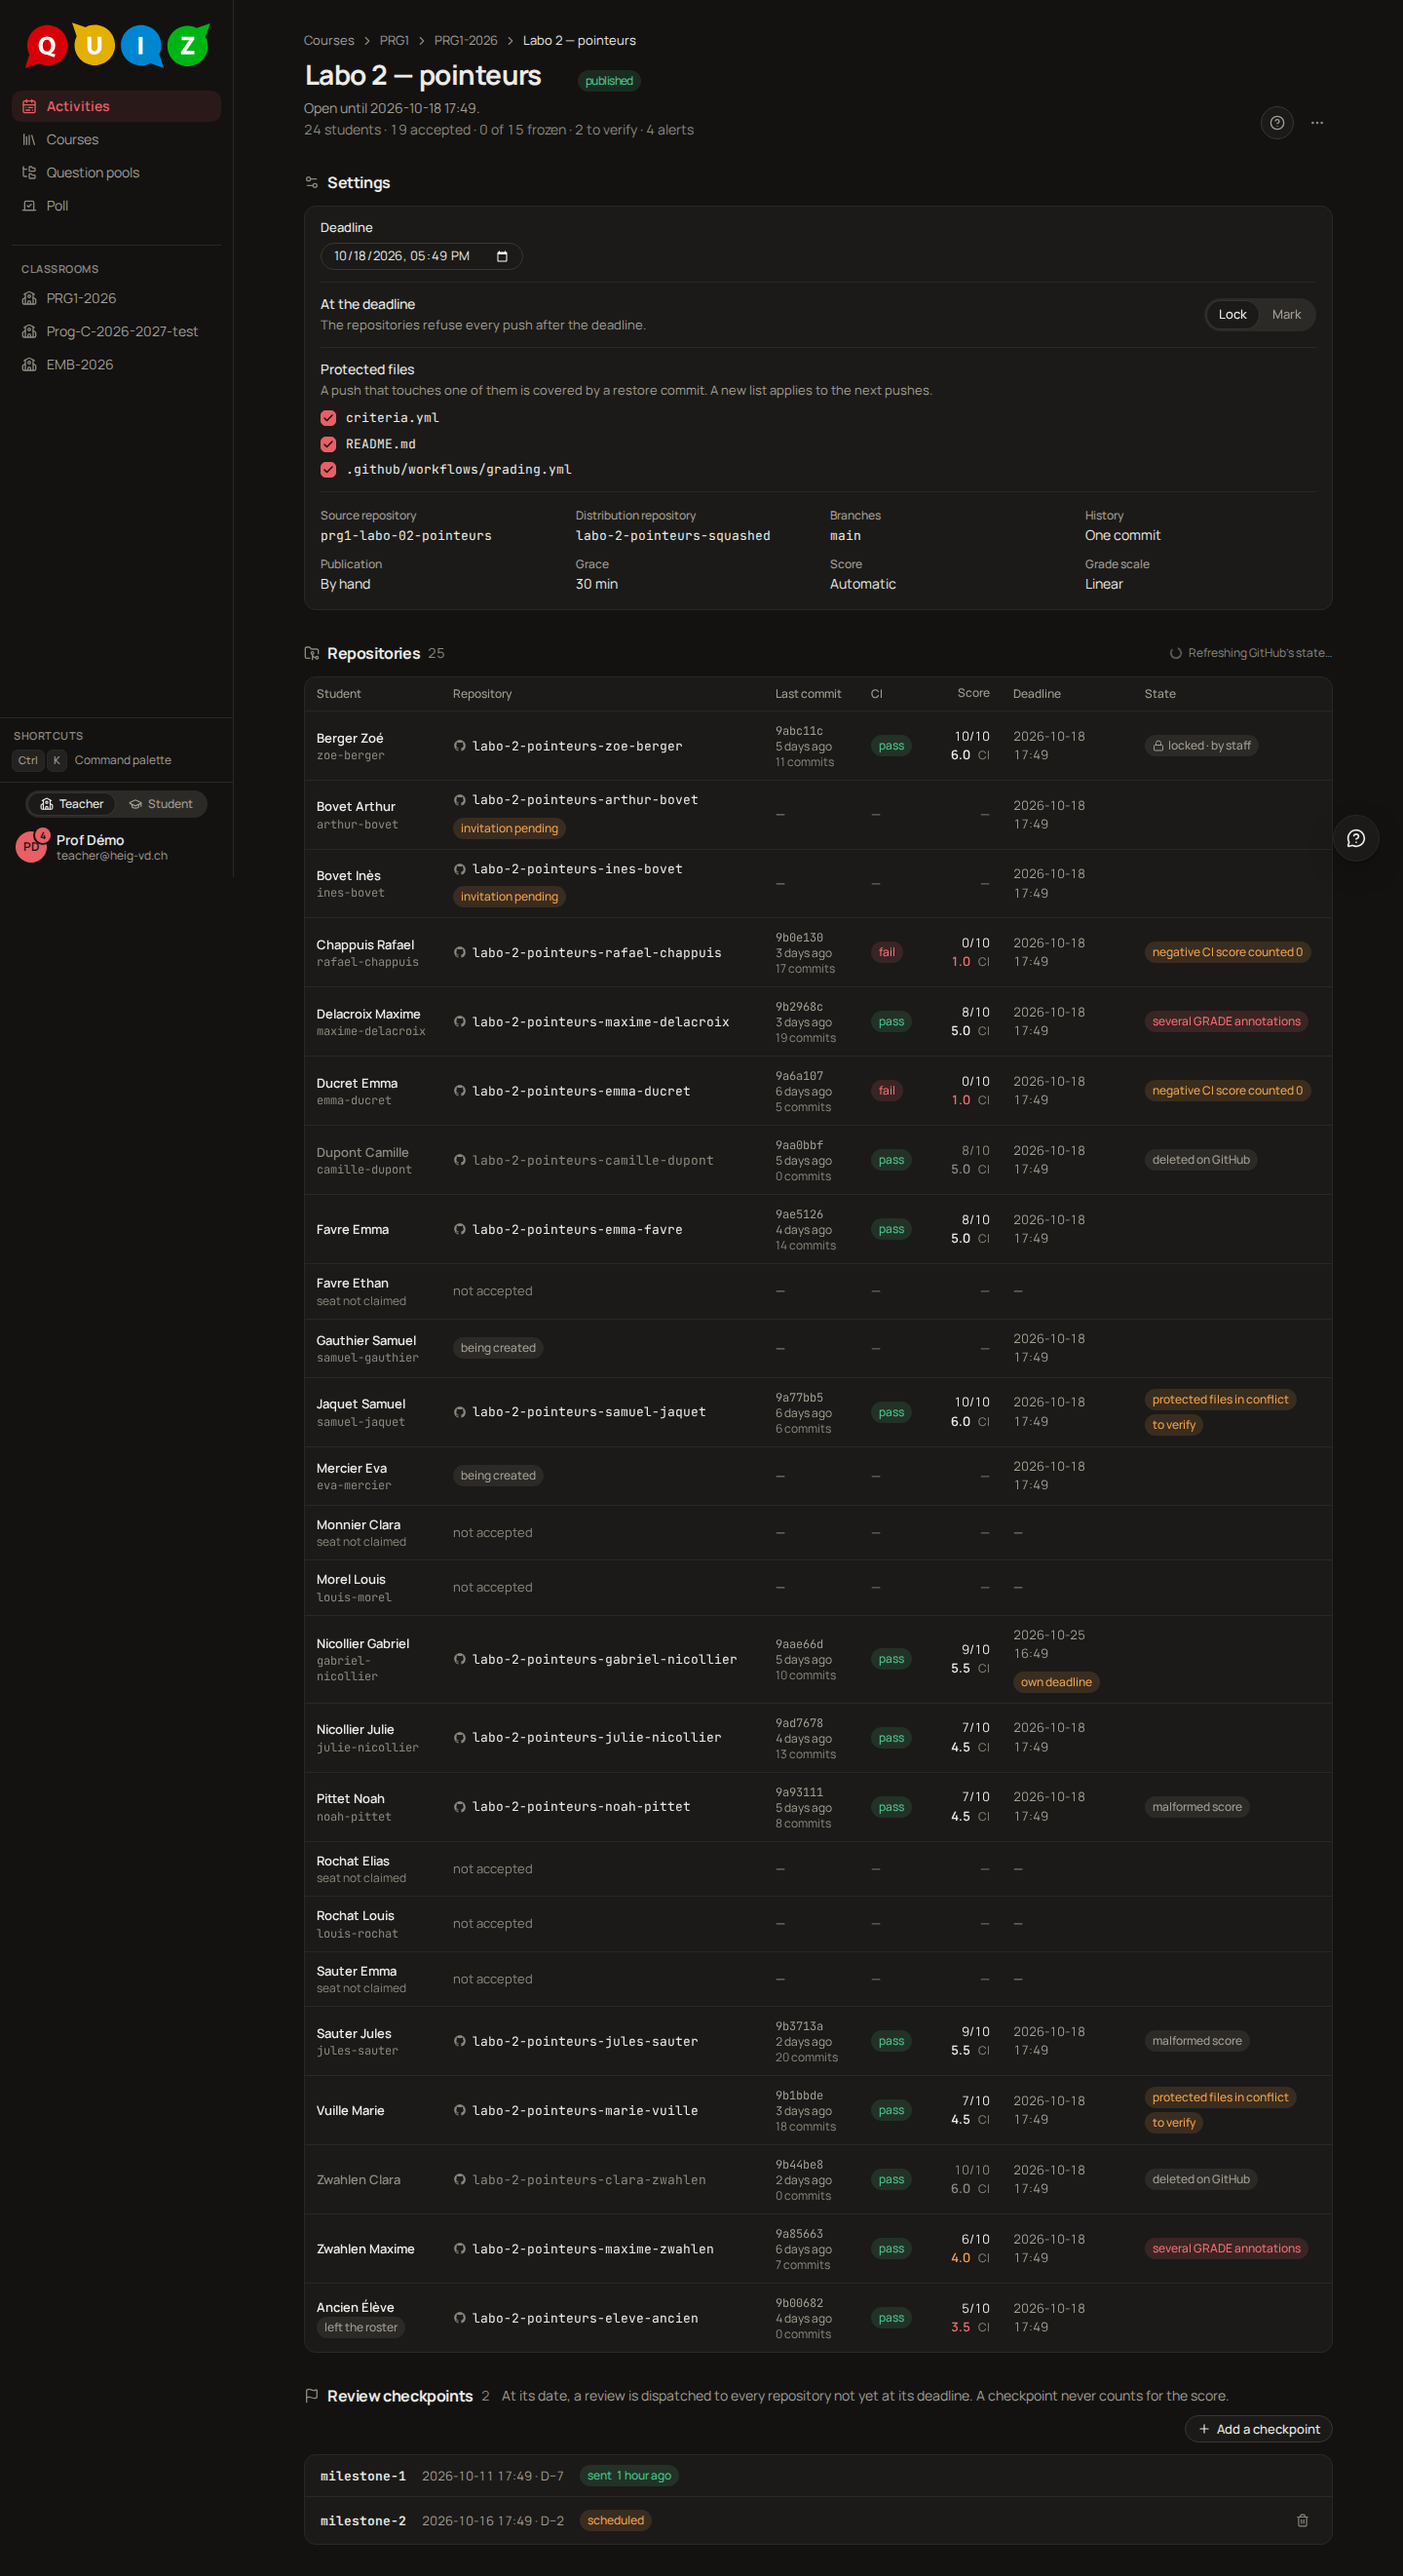
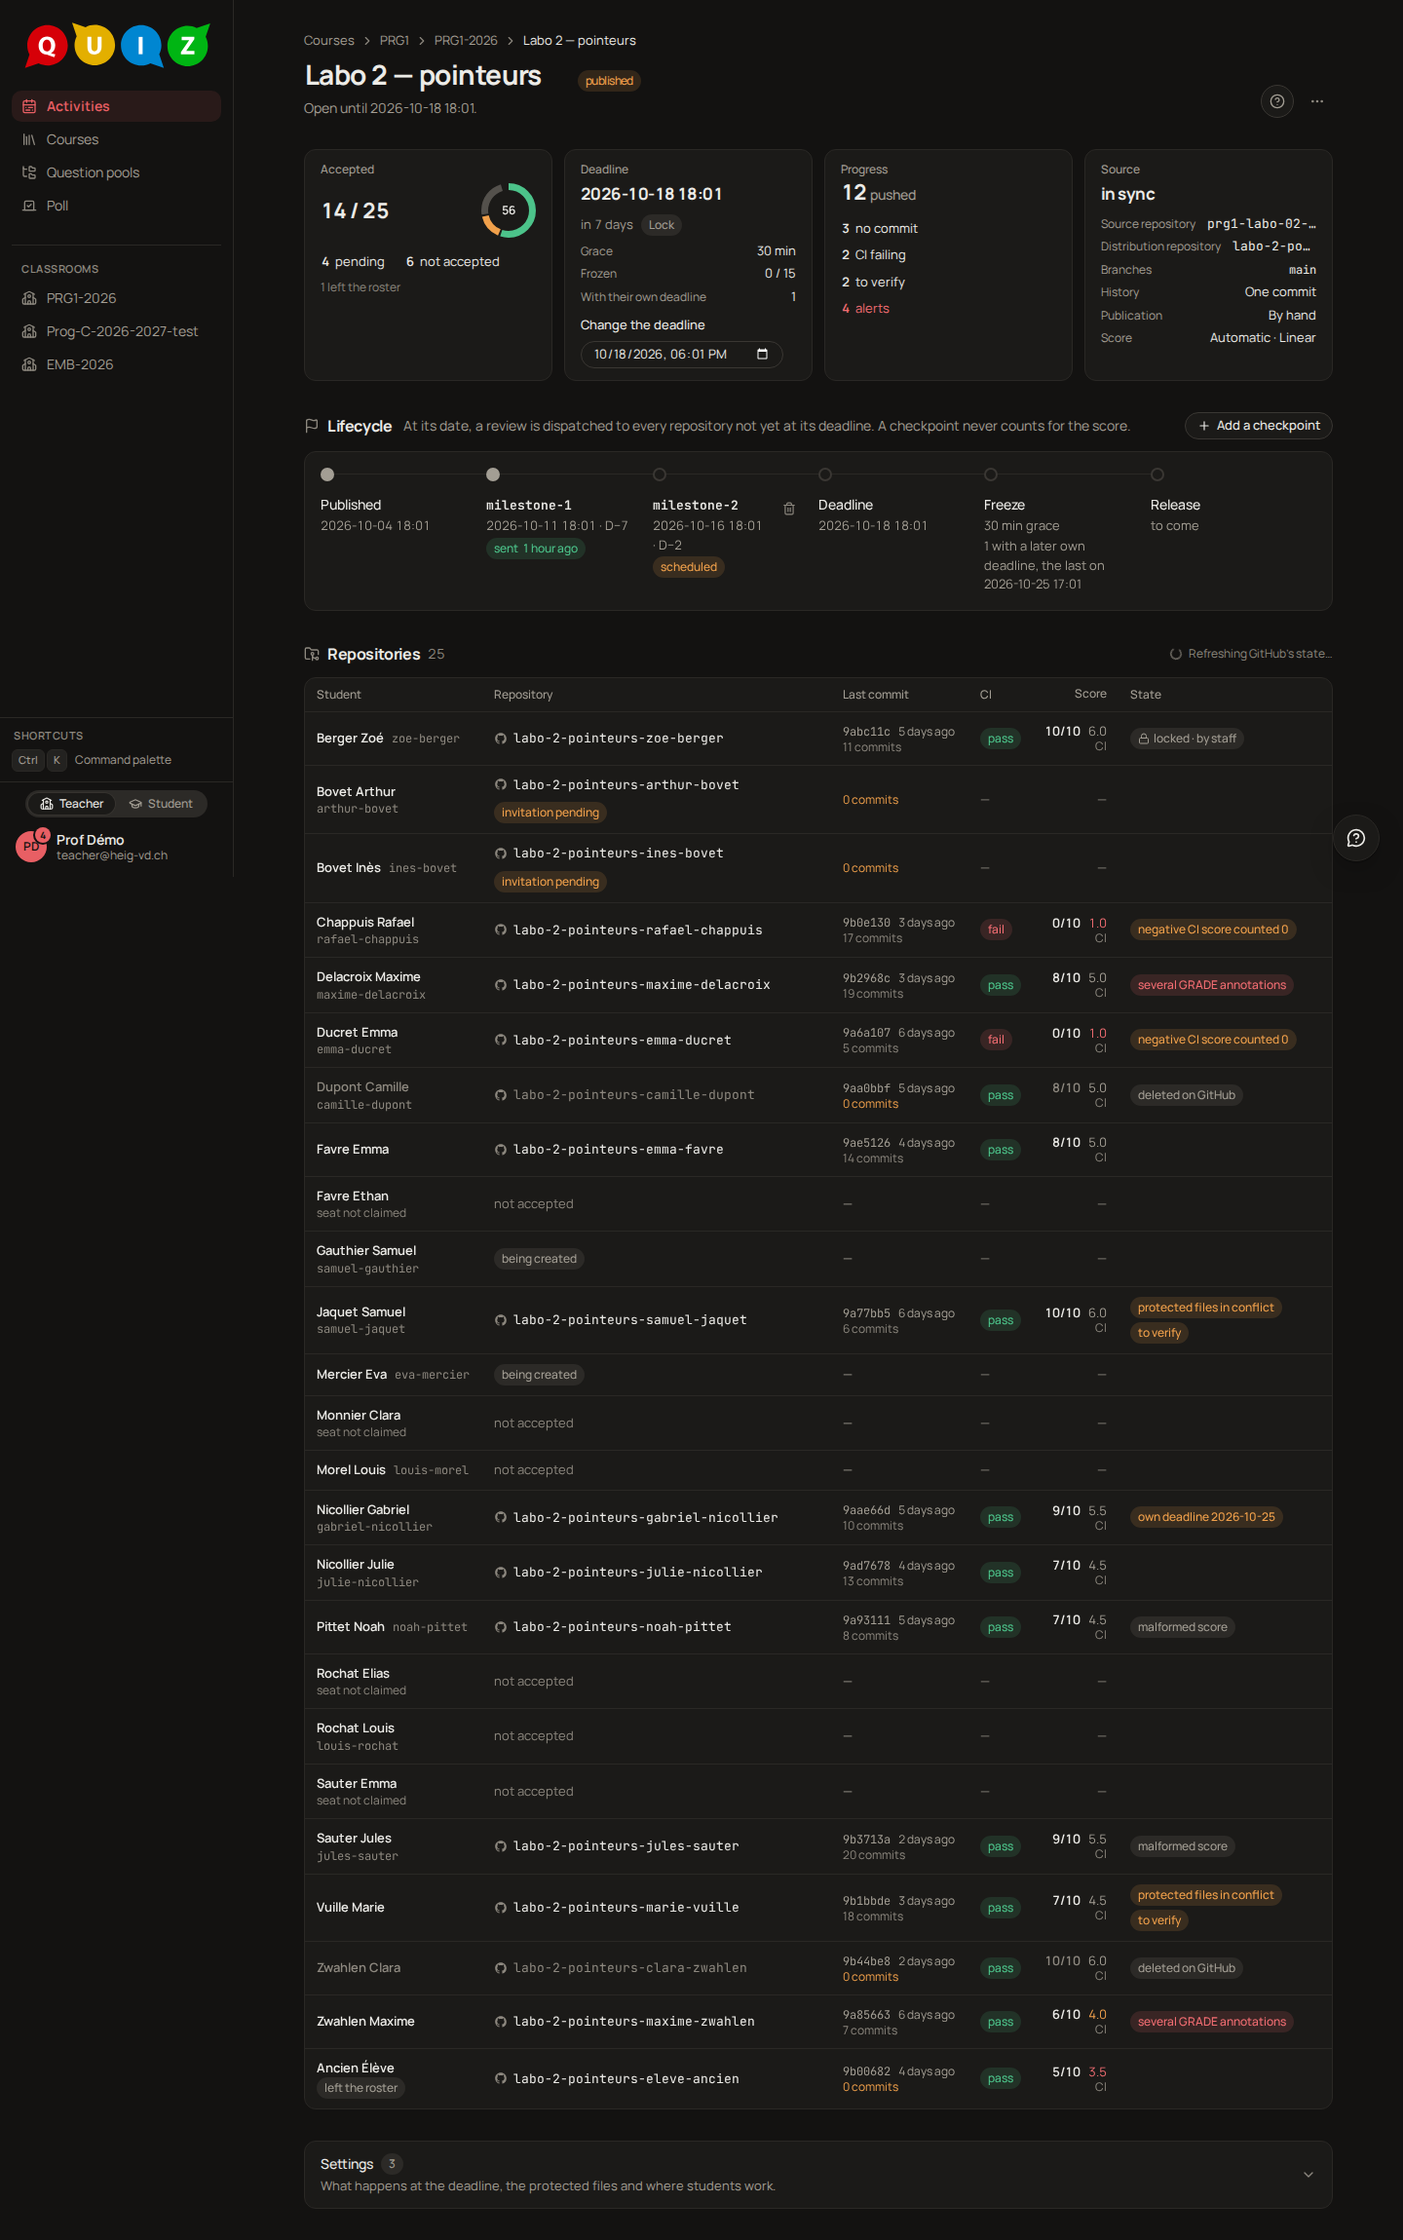
Project dashboard: review nits and guide screenshots taken from the branch's own mock
The retaken captures of the previous commit came from another session's
server on main; these are from this branch at 1440 px, light and dark.

diff --git a/apps/web/src/project/ProjectRail.tsx b/apps/web/src/project/ProjectRail.tsx
@@ -66,8 +66,8 @@ function Step({
  * review checkpoint → Deadline → Freeze → Release, left to right (top to
  * bottom on a phone). A checkpoint the deadline left void sits after the
  * freeze, greyed, "never fires", still deletable; a project graded `none`
- * has no checkpoints and no Release step. "Add a checkpoint" is offered
- * until the project is locked, archived or not.
+ * has no checkpoints and no Release step. "Add a checkpoint" is offered on a
+ * draft or a published project, never once locked or archived.
  */
 export function ProjectRail({ project }: { project: ProjectDetail }) {
   const t = useT();

diff --git a/apps/web/src/project/ProjectPage.test.tsx b/apps/web/src/project/ProjectPage.test.tsx
@@ -1293,7 +1293,7 @@ describe("the dashboard (tiles, filter, rail, folded settings)", () => {
     expect(within(rail).getByRole("button", { name: "Add a checkpoint" })).toBeInTheDocument();
   });
 
-  it("offers a new checkpoint on a draft (F-PROJ-01), not on a locked or an archived project", async () => {
+  it("offers a new checkpoint on a draft (F-PROJ-01)", async () => {
     routes(makeDraft());
     renderPage();
     const rail = await screen.findByRole("region", { name: "Lifecycle" });

diff --git a/apps/web/src/poll/OutcomeDonut.tsx b/apps/web/src/poll/OutcomeDonut.tsx
@@ -74,7 +74,7 @@ export function OutcomeBadge({ outcome }: { outcome: PollOutcome }) {
       sentence={text}
       hole={outcome.correct.percent}
       parts={[
-        { value: outcome.correct.rate, tone: "success", },
+        { value: outcome.correct.rate, tone: "success" },
         { value: outcome.incorrect.rate, tone: "warning" },
         { value: outcome.abstention?.rate ?? 0, tone: "faint" },
       ]}

diff --git a/apps/web/src/ui/page.tsx b/apps/web/src/ui/page.tsx
@@ -485,7 +485,7 @@ export function Stat({
   aside?: ReactNode;
   icon?: IconType;
   onClick?: () => void;
-  /** A small picture beside the figure (a `Ring`); tile variant. */
+  /** A small picture beside the figure (a `RingChart`); tile variant. */
   visual?: ReactNode;
   /** The tile's body under the figure; makes the stat a tile, which is never a button. */
   children?: ReactNode;

diff --git a/apps/web/DESIGN.md b/apps/web/DESIGN.md
@@ -1901,7 +1901,7 @@ repositories, what is live of the workspace, and the folded Settings.
   with the source (CI, review, teacher) as faint text under it.
 - **Settings** stay editable after publication but are demoted: a folded
   `Disclosure` at the bottom (strategy, protected files, work mode) with the
-  count of protected files beside its title. A draft's opens by default.
+  count of protected files beside its title. A draft's sits above the tiles instead and opens by default.
 - Archived: every write disabled. Group mode: counts per group.
 
 ## The pool's concept heat (Concepts tab, "Heat")
